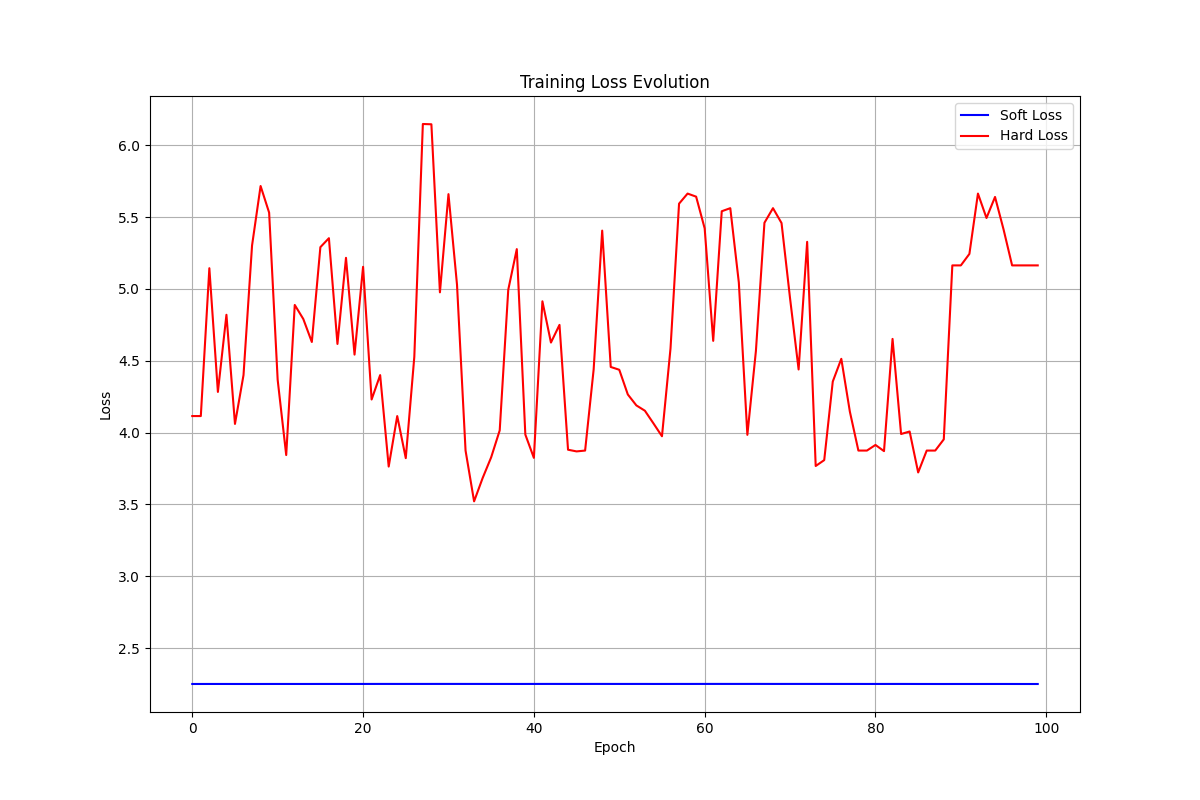
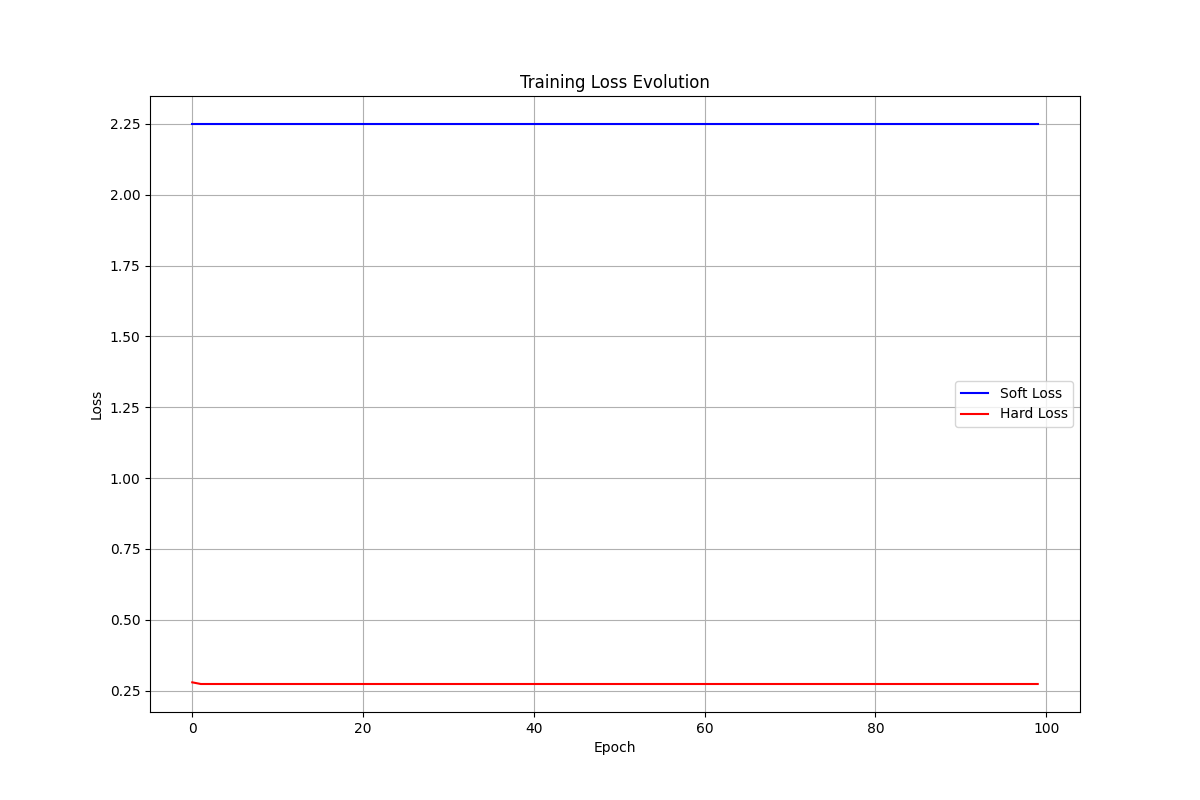
Still stuck in vanishing

diff --git a/src/lib.rs b/src/lib.rs
@@ -116,95 +116,65 @@ impl LogicGate {
     
     // Update the gate probabilities during training
     pub fn update_probabilities(&mut self, gradient: f32, learning_rate: f32, a: f32, b: f32, l2_strength: f32, temperature: f32) {
+        // Calculate the current output using weighted probabilities
+        let current_output = self.compute_soft(a, b);
+        
+        // Calculate individual operation outputs
         let ops = [
-            0.0,            // FALSE
-            a * b,          // AND
-            a * (1.0 - b),  // A_AND_NOT_B
-            a,              // A
-            (1.0 - a) * b,  // NOT_A_AND_B
-            b,              // B
-            a + b - 2.0*a*b, // XOR
-            a + b - a*b,    // OR
-            1.0 - (a + b - a*b), // NOR
-            1.0 - (a + b - 2.0*a*b), // XNOR
-            1.0 - b,        // NOT_B
-            1.0 - b + a*b,  // A_OR_NOT_B
-            1.0 - a,        // NOT_A
-            1.0 - a + a*b,  // NOT_A_OR_B
-            1.0 - a*b,      // NAND
-            1.0,            // TRUE
+            0.0, a * b, a * (1.0 - b), a, (1.0 - a) * b, b, 
+            a + b - 2.0*a*b, a + b - a*b, 1.0 - (a + b - a*b), 
+            1.0 - (a + b - 2.0*a*b), 1.0 - b, 1.0 - b + a*b, 
+            1.0 - a, 1.0 - a + a*b, 1.0 - a*b, 1.0
         ];
         
-        // Compute gate-specific gradients
-        let mut gradients = vec![0.0; 16];
+        // Calculate operation-specific gradients based on how each would improve the output
+        let mut op_gradients = vec![0.0; 16];
         for i in 0..16 {
-            // Apply noise to encourage exploration
-            let noise_factor = 0.001;
-            let noise = (rand::random::<f32>() * 2.0 - 1.0) * noise_factor;
-            
-            // Input-specific gradient - this creates differentiation between gates
-            let gate_specific_grad = gradient * (ops[i] - self.compute_soft(a, b));
-            
-            // Store the gradient with some noise for exploration
-            gradients[i] = gate_specific_grad + noise;
+            // Direct measure of how this operation would improve the output
+            op_gradients[i] = -gradient * (ops[i] - current_output);
         }
         
-        // Apply softmax with temperature
-        let mut exp_values = vec![0.0; 16];
+        // Apply softmax with higher temperature for exploration
+        let mut probs = vec![0.0; 16];
+        let mut max_prob = f32::MIN;
+        
+        // First, find max for numerical stability
+        for i in 0..16 {
+            max_prob = max_prob.max(self.probability[i] / temperature + op_gradients[i]);
+        }
+        
+        // Calculate exp values with subtracted max
         let mut sum_exp = 0.0;
-        
         for i in 0..16 {
-            exp_values[i] = (self.probability[i] / temperature).exp();
-            sum_exp += exp_values[i];
+            // Add gradient directly to log probabilities (before exp)
+            let log_prob = self.probability[i] / temperature + learning_rate * op_gradients[i];
+            probs[i] = (log_prob - max_prob).exp();
+            sum_exp += probs[i];
         }
         
-        // Apply gradient update with momentum
-        // TODO later because need memory of previous gradient
-        let _momentum = 0.9; // Add momentum for more stable updates
-        let mut updated_probs = vec![0.0; 16];
-        
+        // Normalize and apply minimal L2 regularization
         for i in 0..16 {
-            let softmax_i = exp_values[i] / sum_exp;
-            let mut softmax_grad = 0.0;
+            probs[i] /= sum_exp;
             
-            // Calculate softmax gradient
-            for j in 0..16 {
-                if i == j {
-                    softmax_grad += softmax_i * (1.0 - softmax_i) * gradients[j];
-                } else {
-                    softmax_grad += -softmax_i * (exp_values[j] / sum_exp) * gradients[j];
-                }
+            // Apply very mild L2 only to non-pass-through gates
+            if (i != 3 && i != 5) && probs[i] > 0.05 {
+                probs[i] -= learning_rate * l2_strength * probs[i];
             }
             
-            // Apply momentum and gradient
-            let update = learning_rate * softmax_grad;
-            
-            // Apply L2 regularization differently for pass-through gates
-            if i != 3 && i != 5 {  // Not A or B
-                updated_probs[i] = self.probability[i] + update - learning_rate * l2_strength * self.probability[i];
-            } else {
-                updated_probs[i] = self.probability[i] + update; // No regularization for pass-through
-            }
+            // Ensure minimum probability
+            probs[i] = probs[i].max(0.001);
         }
         
-        // Ensure minimum probability and normalize
-        let epsilon = 1e-6;
-        let mut sum = 0.0;
-        
+        // Renormalize
+        sum_exp = probs.iter().sum();
         for i in 0..16 {
-            self.probability[i] = updated_probs[i].max(epsilon);
-            sum += self.probability[i];
+            self.probability[i] = probs[i] / sum_exp;
         }
         
-        for i in 0..16 {
-            self.probability[i] /= sum;
-        }
-        
-        // Set the most probable operation
+        // Update the current operation
         self.update_current_op();
     }
     
-    // Move the operation update to a separate function
     fn update_current_op(&mut self) {
         let mut max_idx = 0;
         let mut max_prob = self.probability[0];

diff --git a/train_optimized.py b/train_optimized.py
@@ -182,20 +182,20 @@ def train_gol_model(epochs=200, learning_rate=0.001, batch_size = 64, temperatur
     
     try:
         # Train with loss tracking callback
+        epoch_start = time.time()
         for epoch in range(epochs):
-            epoch_start = time.time()
             
             # Call the train_epoch method (to be implemented in Rust)
-            soft_loss, hard_loss = ca.train_epoch(configs, targets, learning_rate)
-            
-            epoch_time = time.time() - epoch_start
+            soft_loss, hard_loss = ca.train_epoch(configs, targets, learning_rate)                      
             
             # Update loss tracker
             loss_tracker.update(epoch, soft_loss, hard_loss)
             
             # Print progress
             if epoch % 10 == 0 or epoch == epochs - 1:
+                epoch_time = time.time() - epoch_start
                 print(f"Epoch {epoch}/{epochs}: Soft Loss = {soft_loss:.6f}, Hard Loss = {hard_loss:.6f}, Time: {epoch_time:.2f}s")
+                epoch_start = time.time()
     
     except AttributeError:
         print("The train_epoch method is not available. Falling back to standard training.")
@@ -239,8 +239,8 @@ if __name__ == "__main__":
     parser = argparse.ArgumentParser(description='Train a DiffLogic CA to learn Game of Life rules')
     parser.add_argument('--epochs', type=int, default=100, help='Number of training epochs')
     parser.add_argument('--lr', type=float, default=0.05, help='Learning rate')
-    parser.add_argument('--batchsize', type=int, default=8, help='Batch size')
-    parser.add_argument('--tmp', type=float, default=0.5, help='Temperature')
+    parser.add_argument('--batchsize', type=int, default=1, help='Batch size')
+    parser.add_argument('--tmp', type=float, default=0.75, help='Temperature')
     parser.add_argument('--l2', type=float, default=0.0001, help='L2 regularisation strength')
     parser.add_argument('--visualize', action='store_true', help='Visualize evaluation results')
     parser.add_argument('--no-save-plot', action='store_false', dest='save_plot', help='Do not save loss plot')
